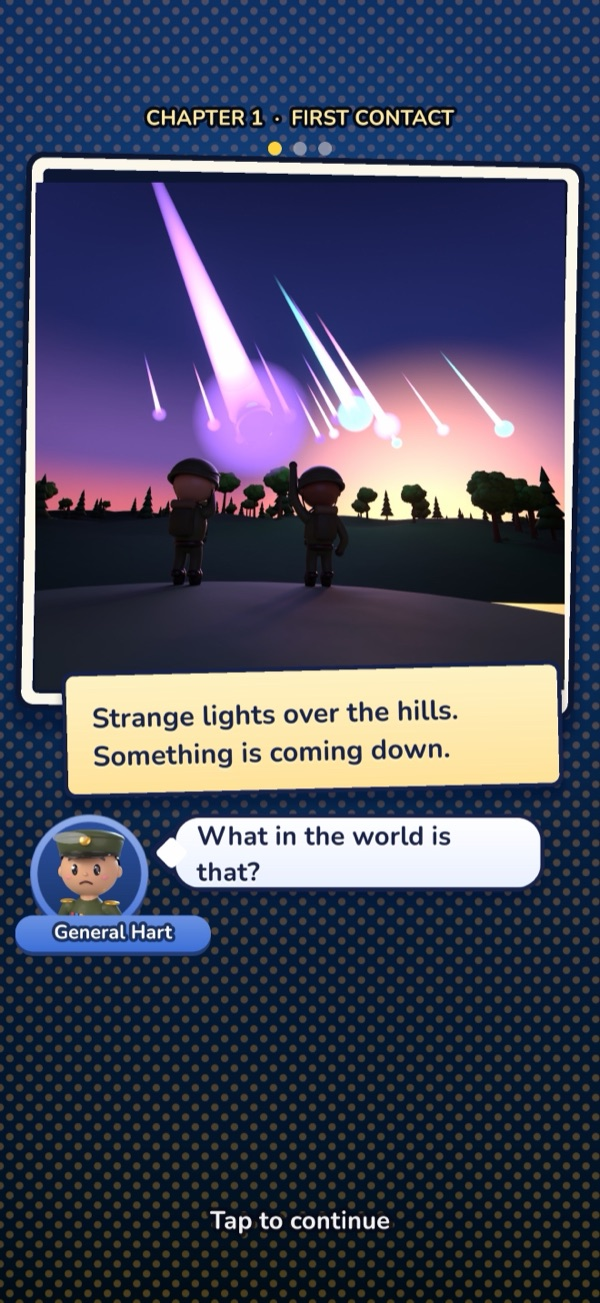
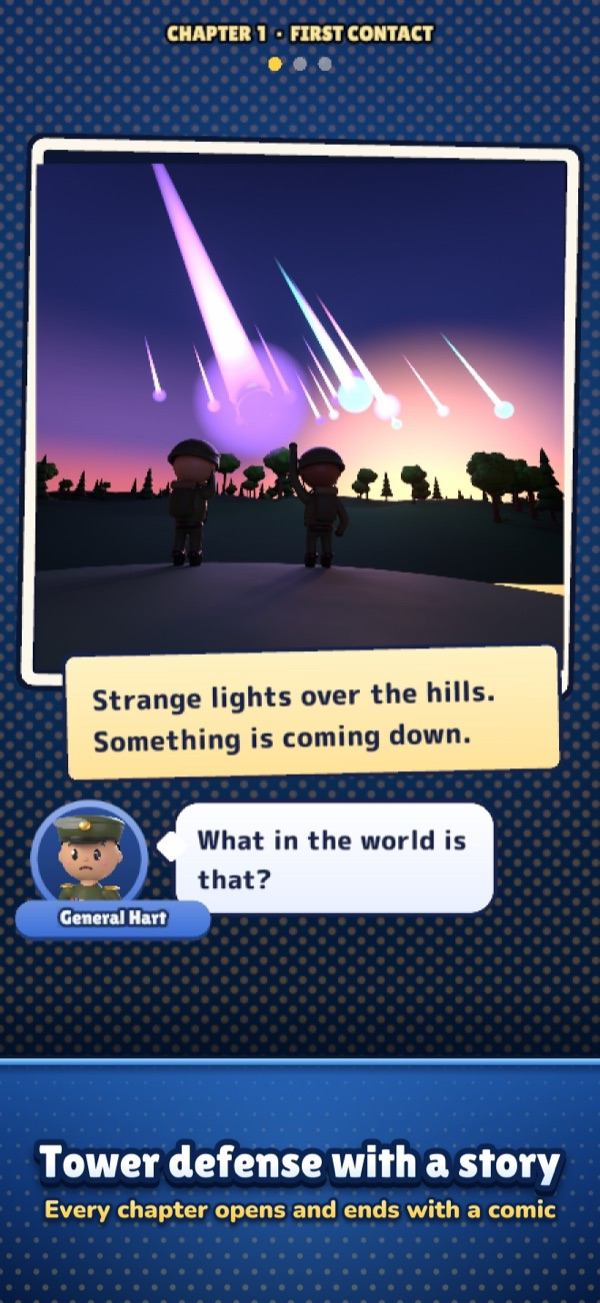
Messenger: Last Warning is on the App Store; new screenshots

diff --git a/index.html b/index.html
@@ -52,7 +52,7 @@
         <header><img src="img/messenger-icon.png" alt=""><div><h3>Messenger: Last Warning</h3><p class="tag">Tower defense with a story</p></div></header>
         <p>Cute aliens are racing toward Earth, and your orders are clear: nothing reaches the base. But one of them is trying to tell you something before it falls… Four chapters of towers, twists and comics.</p>
         <div class="chips"><span class="chip">Tower defense</span><span class="chip">120 levels</span><span class="chip">Story</span></div>
-        <div class="links"><span class="soon">Coming soon</span><a href="messenger.html">Help</a><a href="messenger-privacy.html">Privacy</a><a href="messenger-terms.html">Terms</a></div>
+        <div class="links"><a class="store" href="https://apps.apple.com/app/id6823263630"><svg viewBox="0 0 24 24"><path d="M16.37 12.6c-.03-2.6 2.12-3.85 2.22-3.91-1.21-1.77-3.09-2.01-3.76-2.04-1.6-.16-3.12.94-3.93.94-.81 0-2.06-.92-3.39-.89-1.74.03-3.35 1.01-4.25 2.57-1.81 3.14-.46 7.79 1.3 10.34.86 1.25 1.89 2.65 3.24 2.6 1.3-.05 1.79-.84 3.36-.84 1.57 0 2.01.84 3.38.81 1.4-.03 2.28-1.27 3.13-2.53.99-1.45 1.39-2.85 1.42-2.92-.03-.01-2.72-1.04-2.72-4.13zM13.79 4.97c.72-.87 1.2-2.07 1.07-3.27-1.03.04-2.28.69-3.02 1.55-.66.77-1.24 2-1.09 3.18 1.15.09 2.32-.58 3.04-1.46z"/></svg>App Store</a><a href="messenger.html">Help</a><a href="messenger-privacy.html">Privacy</a><a href="messenger-terms.html">Terms</a></div>
       </article>
       <article class="game" id="cozy" style="--c: var(--mint)">
         <header><img src="img/cozy-icon.png" alt=""><div><h3>Cozy Puzzles - 4 Seasons</h3><p class="tag">Jigsaws of the world’s loveliest places</p></div></header>
@@ -118,7 +118,7 @@
         <dl class="facts">
           <dt>Who</dt><dd>Wozzly, an independent game maker</dd>
           <dt>Where</dt><dd>Pacific Northwest, USA</dd>
-          <dt>Games</dt><dd>Aha! Brain Puzzles (Oct 2026), Cozy Puzzles - 4 Seasons (Oct 2026), Ant Farm: Sort Puzzle (Oct 2026) and Messenger: Last Warning (coming soon)</dd>
+          <dt>Games</dt><dd>Aha! Brain Puzzles (Oct 2026), Cozy Puzzles - 4 Seasons (Oct 2026), Ant Farm: Sort Puzzle (Oct 2026) and Messenger: Last Warning (Oct 2026)</dd>
           <dt>Platforms</dt><dd>iPhone and iPad</dd>
         </dl>
       </div>
